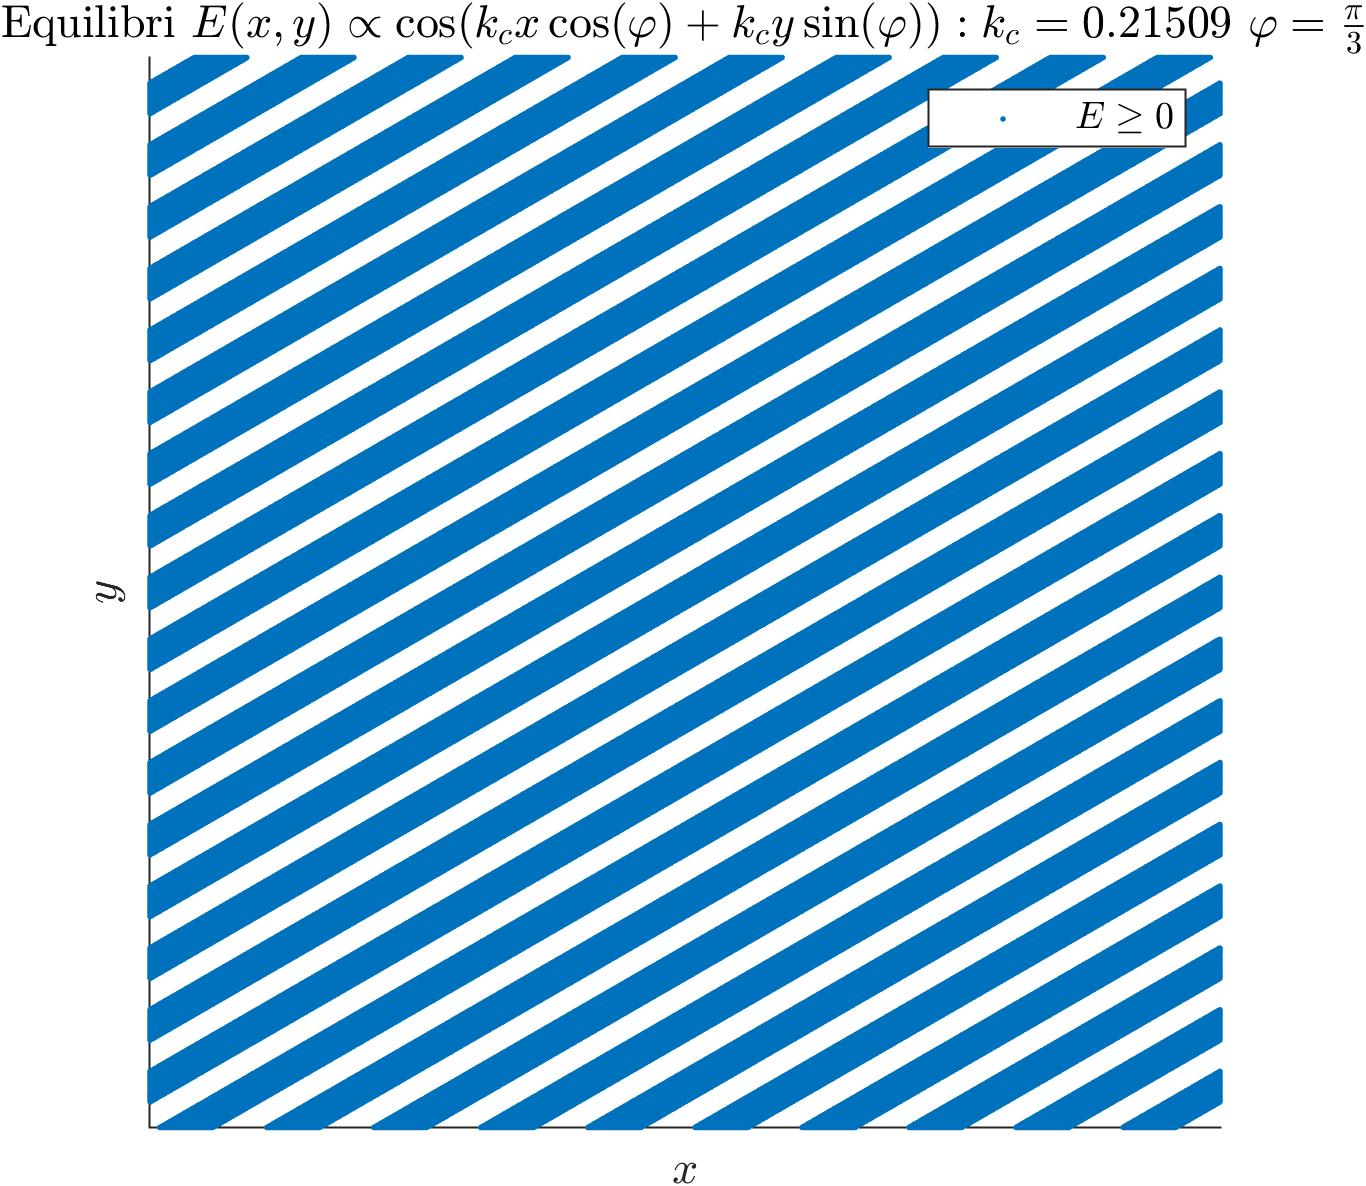
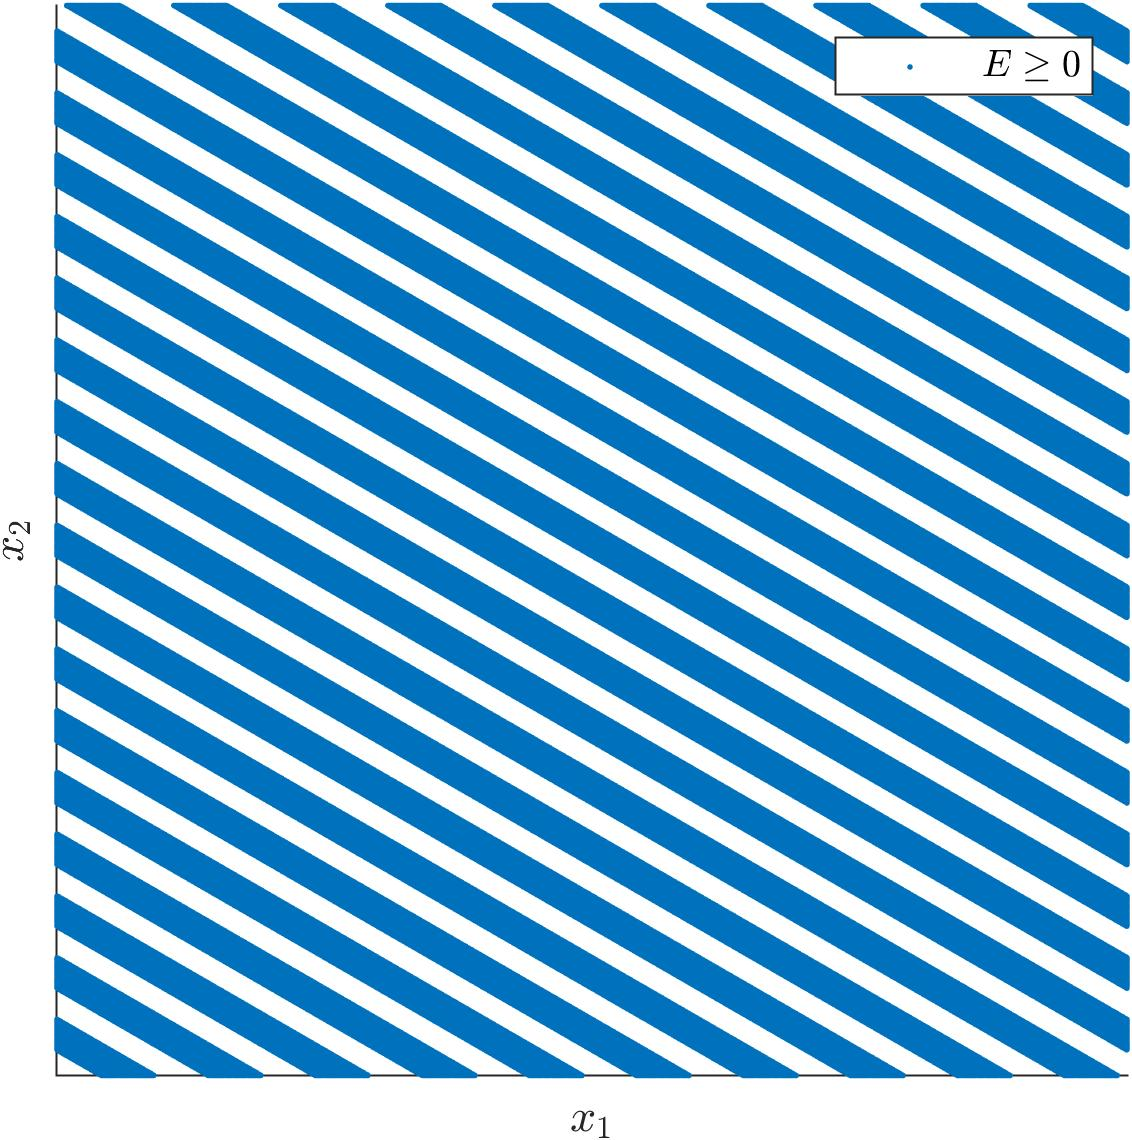
Add files via upload

diff --git a/3.hallucinations_2d_model/makeStripes.m b/3.hallucinations_2d_model/makeStripes.m
@@ -12,11 +12,11 @@ y=linspace(-ext,ext,1000);
 %Evidenzio i valori positivi della soluzione sui punti della griglia
 figure
 hold on
-title(strcat('Equilibri $E(x,y)\propto \cos(k_c x):','k_c=',num2str(k_c),'$'),'Interpreter','latex')
+%title(strcat('Equilibri $E(x_1,x_2)\propto \cos(k_c x_1):','k_c=',num2str(k_c),'$'),'Interpreter','latex')
 Z=(cos(k_c*X) >= 0);
-spy(Z);
-xlabel('$x$','Interpreter','latex');
-ylabel('$y$','Interpreter','latex');
+spy(fliplr(Z));
+xlabel('$x_1$','Interpreter','latex');
+ylabel('$x_2$','Interpreter','latex');
 % cancellazione dei valori sugli assi
 set(gca,'XTick',[]);
 set(gca,'YTick',[]);
@@ -32,15 +32,15 @@ beta=1;
 figure
 hold on
 axis('equal');
-title(strcat('Immagine sulla retina $E(x,y)\propto \cos(k_c x):','k_c=',num2str(k_c),'$'),'Interpreter','latex');
+%title(strcat('Immagine sulla retina $E(x_1,x_2)\propto \cos(k_c x_1):','k_c=',num2str(k_c),'$'),'Interpreter','latex');
 for l=1:length(Z)
     if Z(1,l) == 1
         z_ret=1/(2*beta)*exp(1/alpha.*X(:,l)+i.*Y(:,l));
         plot(z_ret,'Color',[0, 0.4470, 0.7410]);
     end
 end
-xlabel('$x$','Interpreter','latex');
-ylabel('$y$','Interpreter','latex');
+xlabel('$x_1$','Interpreter','latex');
+ylabel('$x_2$','Interpreter','latex');
 % cancellazione dei valori sugli assi
 set(gca,'XTick',[]);
 set(gca,'YTick',[]);
@@ -51,11 +51,11 @@ exportgraphics(gcf,'stripes1retina.jpg','Resolution',300);
 %Evidenzio i valori positivi della soluzione sui punti della griglia
 figure
 hold on
-title(strcat('Equilibri $E(x,y)\propto \cos(k_c y):','k_c=',num2str(k_c),'$'),'Interpreter','latex')
+%title(strcat('Equilibri $E(x_1,x_2)\propto \cos(k_c x_2):','k_c=',num2str(k_c),'$'),'Interpreter','latex')
 Z=(cos(k_c*Y) >= 0);
-spy(Z);
-xlabel('$x$','Interpreter','latex');
-ylabel('$y$','Interpreter','latex');
+spy(fliplr(Z));
+xlabel('$x_1$','Interpreter','latex');
+ylabel('$x_2$','Interpreter','latex');
 % cancellazione dei valori sugli assi
 set(gca,'XTick',[]);
 set(gca,'YTick',[]);
@@ -71,15 +71,15 @@ beta=1;
 figure
 hold on
 axis([-1e2,1e2,-1e2,1e2]);
-title(strcat('Immagine sulla retina $E(x,y)\propto \cos(k_c y):','k_c=',num2str(k_c),'$'),'Interpreter','latex');
+%title(strcat('Immagine sulla retina $E(x_1,x_2)\propto \cos(k_c x_2):','k_c=',num2str(k_c),'$'),'Interpreter','latex');
 for m=1:length(Z)
     if Z(m,1) == 1
         z_ret=1/(2*beta)*exp(1/alpha.*X(m,:)+i.*Y(m,:));
         plot(z_ret,'Color',[0, 0.4470, 0.7410]);
     end
 end
-xlabel('$x$','Interpreter','latex');
-ylabel('$y$','Interpreter','latex');
+xlabel('$x_1$','Interpreter','latex');
+ylabel('$x_2$','Interpreter','latex');
 % cancellazione dei valori sugli assi
 set(gca,'XTick',[]);
 set(gca,'YTick',[]);
@@ -96,11 +96,11 @@ y=linspace(-ext,ext,2000);
 figure
 hold on
 phi=pi/3;
-title(strcat('Equilibri $E(x,y)\propto \cos(k_c x \cos(\varphi) + k_c y \sin(\varphi)):','k_c=',num2str(k_c),'\ \varphi= \frac{\pi}{3}','$'),'Interpreter','latex')
+%title(strcat('Equilibri $E(x_1,x_2)\propto \cos(k_c x_1 \cos(\varphi) + k_c x_2 \sin(\varphi)):','k_c=',num2str(k_c),'\ \varphi= \frac{\pi}{3}','$'),'Interpreter','latex')
 Z=(cos(k_c*X*cos(phi)+k_c*Y*sin(phi)) >= 0);
-spy(Z);
-xlabel('$x$','Interpreter','latex');
-ylabel('$y$','Interpreter','latex');
+spy(fliplr(Z));
+xlabel('$x_1$','Interpreter','latex');
+ylabel('$x_2$','Interpreter','latex');
 % cancellazione dei valori sugli assi
 set(gca,'XTick',[]);
 set(gca,'YTick',[]);
@@ -116,7 +116,7 @@ beta=1;
 figure
 hold on
 axis([-1e-2,1e-2,-1e-2,1e-2]);
-title(strcat('Immagine sulla retina $E(x,y)\propto \cos(k_c x \cos(\varphi) + k_c y \sin(\varphi)):','k_c=',num2str(k_c),'\ \varphi= \frac{\pi}{3}','$'),'Interpreter','latex')
+%title(strcat('Immagine sulla retina $E(x_1,x_2)\propto \cos(k_c x_1 \cos(\varphi) + k_c x_2 \sin(\varphi)):','k_c=',num2str(k_c),'\ \varphi= \frac{\pi}{3}','$'),'Interpreter','latex')
 for m=1:length(Z)
     if Z(m,1) == 1
         z_ret=[];
@@ -128,8 +128,8 @@ for m=1:length(Z)
         plot(z_ret,'Color',[0, 0.4470, 0.7410]);
     end
 end
-xlabel('$x$','Interpreter','latex');
-ylabel('$y$','Interpreter','latex');
+xlabel('$x_1$','Interpreter','latex');
+ylabel('$x_2$','Interpreter','latex');
 % cancellazione dei valori sugli assi
 set(gca,'XTick',[]);
 set(gca,'YTick',[]);

diff --git a/3.hallucinations_2d_model/makeHexagons.m b/3.hallucinations_2d_model/makeHexagons.m
@@ -16,7 +16,7 @@ figure
 hold on
 axis('equal')
 colormap turbo
-title(strcat('$E(x,y)\propto \cos\left(k_c \left( \frac{\sqrt{3}}{2}y + \frac{1}{2}x \right)\right)+ \cos\left(k_c \left( \frac{\sqrt{3}}{2}y - \frac{1}{2}x \right)\right) +\cos(k_c x):','k_c=',num2str(k_c),'$'),'Interpreter','latex');
+%title(strcat('$E(x_1,x_2)\propto \cos\left(k_c \left( \frac{\sqrt{3}}{2}x_2 + \frac{1}{2}x_1 \right)\right)+ \cos\left(k_c \left( \frac{\sqrt{3}}{2}x_2 - \frac{1}{2}x_1 \right)\right) +\cos(k_c x_1):','k_c=',num2str(k_c),'$'),'Interpreter','latex');
 contourf(Z);
 % cancellazione dei valori sugli assi
 set(gca,'XTick',[]);
@@ -36,13 +36,13 @@ Z=cos(k_c*(sqrt(3)/2.*Y+1/2.*X))+cos(k_c*(sqrt(3)/2.*Y-1/2.*X))+cos(k_c.*X);
 
 %Visualizzazione dei valori positivi
 figure
-title(strcat('$E(x,y)\propto \cos\left(k_c \left( \frac{\sqrt{3}}{2}y + \frac{1}{2}x \right)\right)+ \cos\left(k_c \left( \frac{\sqrt{3}}{2}y - \frac{1}{2}x \right)\right) +\cos(k_c x):','k_c=',num2str(k_c),'$'),'Interpreter','latex');
+%title(strcat('$E(x_1,x_2)\propto \cos\left(k_c \left( \frac{\sqrt{3}}{2}x_2 + \frac{1}{2}x_1 \right)\right)+ \cos\left(k_c \left( \frac{\sqrt{3}}{2}x_2 - \frac{1}{2}x_1 \right)\right) +\cos(k_c x_1):','k_c=',num2str(k_c),'$'),'Interpreter','latex');
 axis('equal');
 hold on
 colormap gray
 Z_sp=(Z >= 0);
 contour(Z,[-1,-1]);
-spy(Z_sp);
+spy(fliplr(Z_sp));
 xlabel('');
 % cancellazione dei valori sugli assi
 set(gca,'XTick',[]);

diff --git a/3.hallucinations_2d_model/makeRhombuses.m b/3.hallucinations_2d_model/makeRhombuses.m
@@ -17,7 +17,7 @@ figure
 hold on
 axis('equal')
 colormap turbo
-title(strcat('$E(x,y)\propto \cos(k_c x)+ \cos(k_c x \cos(\varphi) + k_c y \sin(\varphi)): k_c=',num2str(k_c),'\ \varphi= \frac{\pi}{3}$'),'Interpreter','latex');
+%title(strcat('$E(x_1,x_2)\propto \cos(k_c x_1)+ \cos(k_c x_1 \cos(\varphi) + k_c x_2 \sin(\varphi)): k_c=',num2str(k_c),'\ \varphi= \frac{\pi}{3}$'),'Interpreter','latex');
 contourf(Z);
 % cancellazione dei valori sugli assi
 set(gca,'XTick',[]);
@@ -37,7 +37,7 @@ Z=cos(k_c.*X)+cos(k_c*X*cos(phi)+k_c*Y*sin(phi));
 
 %Visualizzazione dei valori positivi
 figure
-title(strcat('$E(x,y) \propto \cos(k_c x)+ \cos(k_c y  \sin(\varphi) + k_c x \cos(\varphi)): k_c=',num2str(k_c),'\varphi= \frac{\pi}{3}$'),'Interpreter','latex');
+%title(strcat('$E(x_1,x_2) \propto \cos(k_c x_1)+ \cos(k_c x_1  \cos(\varphi) + k_c x_2 \sin(\varphi)): k_c=',num2str(k_c),'\varphi= \frac{\pi}{3}$'),'Interpreter','latex');
 axis('equal');
 hold on
 Z_sp=(Z >= 0);

diff --git a/3.hallucinations_2d_model/makeSquares.m b/3.hallucinations_2d_model/makeSquares.m
@@ -16,7 +16,7 @@ figure
 hold on
 axis('equal')
 colormap turbo
-title(strcat('$E(x,y)\propto \cos(k_c x)+\cos(k_c y):','k_c=',num2str(k_c),'$'),'Interpreter','latex');
+%title(strcat('$E(x_1,x_2)\propto \cos(k_c x_1)+\cos(k_c x_2):','k_c=',num2str(k_c),'$'),'Interpreter','latex');
 contourf(Z);
 % cancellazione dei valori sugli assi
 set(gca,'XTick',[]);
@@ -36,11 +36,11 @@ Z=cos(k_c.*X)+cos(k_c.*Y);
 
 %Visualizzazione dei valori positivi
 figure
-title(strcat('$E(x,y)\propto \cos(k_c x)+\cos(k_c y):','k_c=',num2str(k_c),'$'),'Interpreter','latex');
+%title(strcat('$E(x_1,x_2)\propto \cos(k_c x_1)+\cos(k_c x_2):','k_c=',num2str(k_c),'$'),'Interpreter','latex');
 axis('equal');
 hold on
 Z_sp=(Z >= 0);
-spy(Z_sp);
+spy(fliplr(Z_sp));
 xlabel('');
 % cancellazione dei valori sugli assi
 set(gca,'XTick',[]);

diff --git a/3.hallucinations_2d_model/makeBifurcation2.m b/3.hallucinations_2d_model/makeBifurcation2.m
@@ -35,8 +35,8 @@ if plt==1
     %Elaborazione del diagramma di biforcazione.
     hold on
     title('Modello 2-dimensionale, diagramma di biforcazione','Interpreter','latex');
-    xlabel("Numeri d'onda $k$",'Interpreter','latex');
-    ylabel("Dispersione $\Re(\lambda(k))$",'Interpreter','latex');
+    xlabel("$||\textbf{k}||$",'Interpreter','latex');
+    ylabel("Dispersione $\Re(\lambda(\textbf{k}))$",'Interpreter','latex');
     k=linspace(0,ext,200);
     lims=[0,ext,min(lambda(k,p1)),max(lambda(k,p2))];
     axis(lims);
